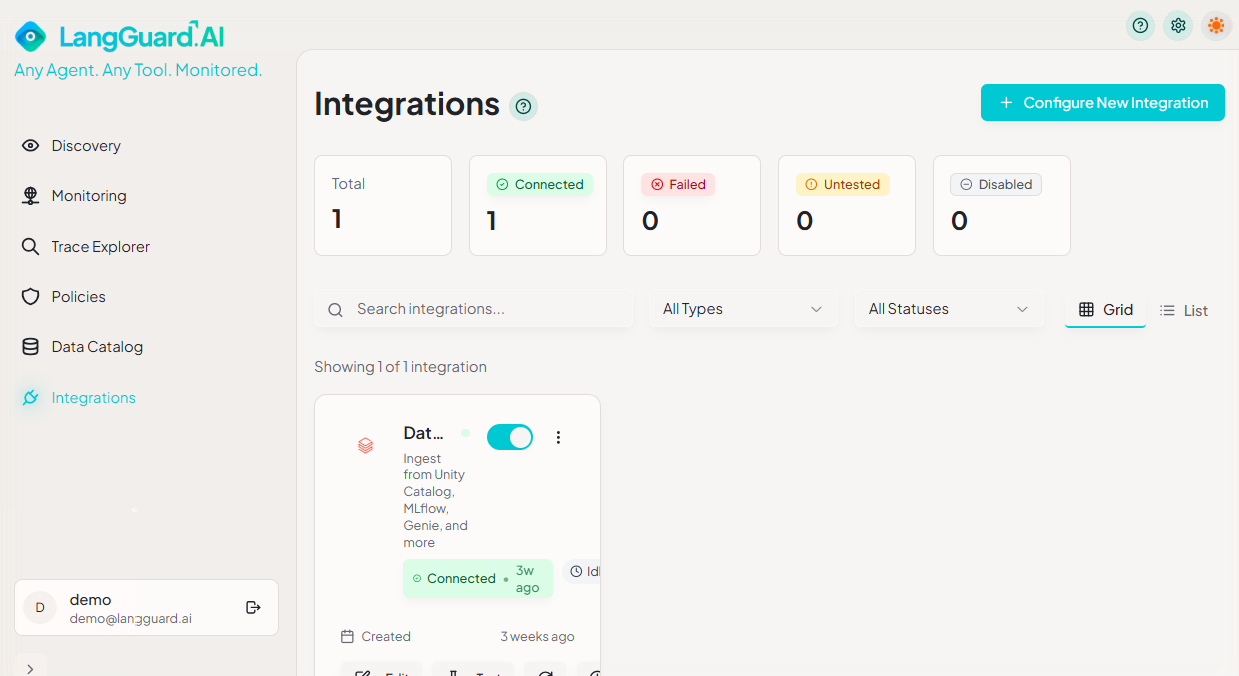
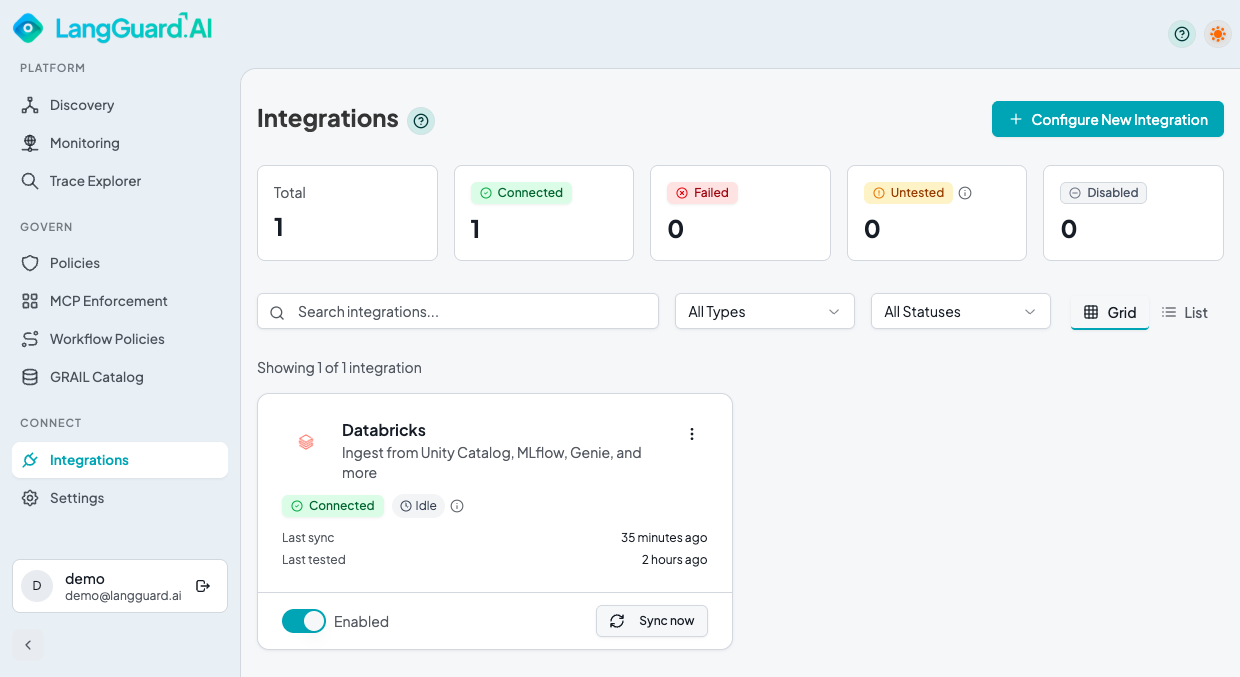
docs(integrations): update the Integrations page screenshots (#24)
The integration card has a new layout: full name and description,
status badges in their own row, Last sync and Last tested rows, and a
footer with the enable switch and Sync now. Sync history moved into the
card menu, so the Sync History section now says where to find it.

Claude-Session: https://claude.ai/code/session_01WyPgpgZTcF9DRbytHKyw7H

diff --git a/docs/integrations/index.md b/docs/integrations/index.md
@@ -145,7 +145,7 @@ Configure automatic synchronization:
 
 ### Manual Sync
 
-Trigger sync on-demand by clicking the **Sync Now** button on the integration card.
+Trigger sync on-demand by clicking the **Sync now** button on the integration card.
 
 ### Push-Based Ingestion
 
@@ -173,7 +173,7 @@ See individual integration guides for setup.
 
 ### Sync History
 
-View recent sync operations:
+Open the menu (**⋮**) on the integration card and select **View sync history** to view recent sync operations:
 
 - Success/failure status
 - Items fetched and ingested
